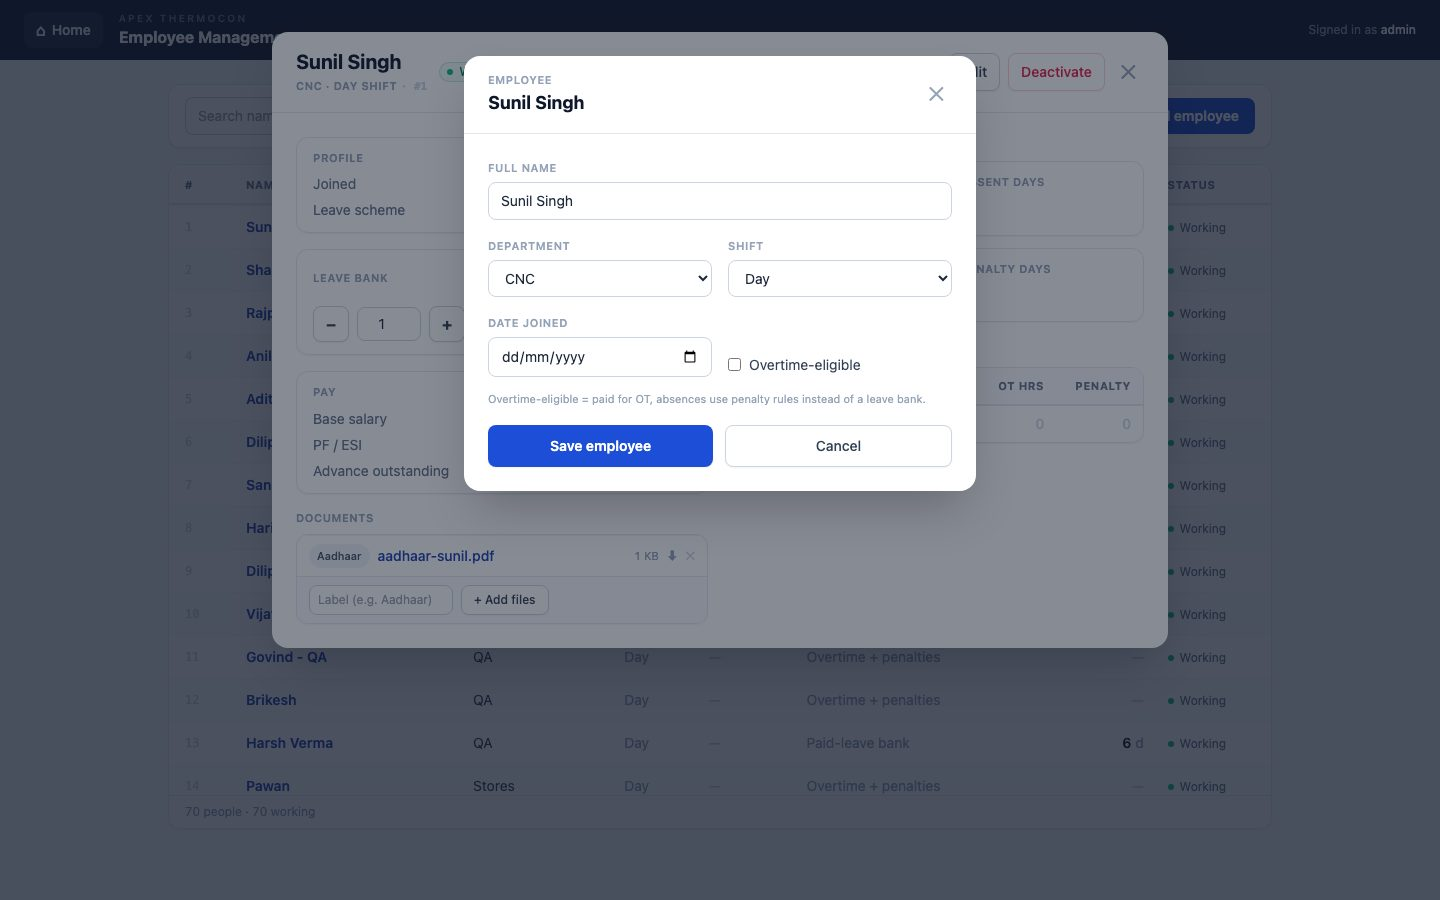
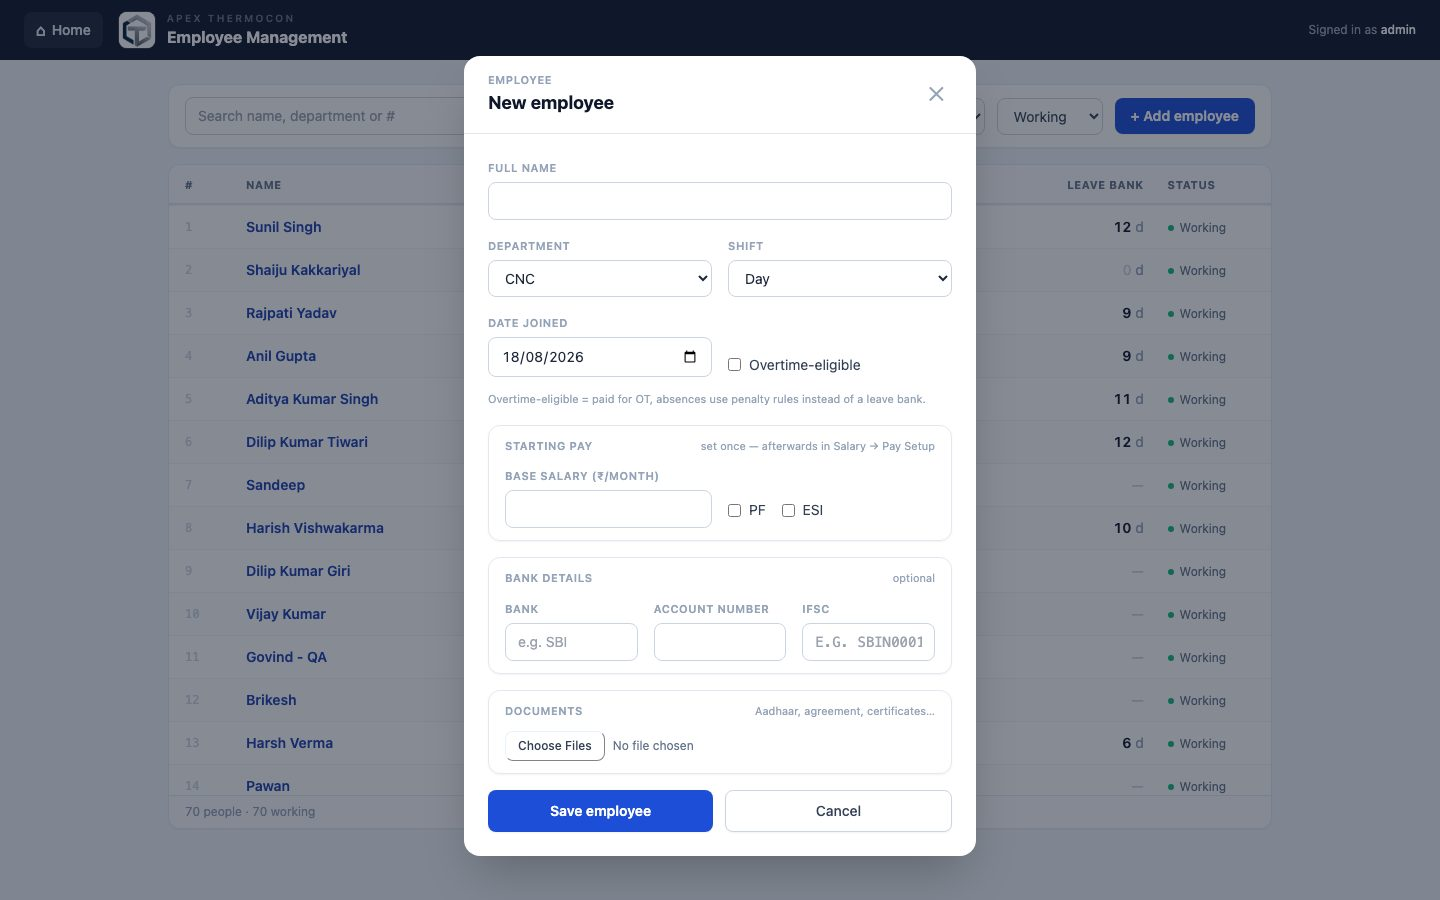
feat: bank details and day-one documents on the add-employee form
- Bank details (bank · account number · IFSC) are optional TEXT on the
  employee — an account number is an identifier, not arithmetic. IFSC
  is tidied to uppercase. They ride with the PROFILE model on the
  EM/Salary split: EM owns who the person is and where their pay goes,
  Pay Setup owns how much — so a stale pay form can never blank them
  (tested both directions). Shown on the record's Profile card, styled
  mono like the serial numbers they are.

- The add form takes the documents handed over on day one (Aadhaar,
  agreement, certificates) and attaches them as "Joining documents"
  after the create returns — same rule as intake and drawings: a failed
  upload is a toast, never a failed save, because re-saving would
  create the person twice.

245 tests pass (2 new: round-trip + tidy-up, the EM/Salary split
holding, and both route models carrying the fields — the Pydantic
drops-unknown-fields trap, pinned again). Verified in Chromium: created
an employee with bank details and two PDFs, record shows the bank line
and both documents, edit form prefills; test person removed from the
demo DB after. Guide + em-edit image + help rebuilt.

diff --git a/salary-system/new_system/frontend/employees/index.html b/salary-system/new_system/frontend/employees/index.html
@@ -193,6 +193,16 @@
               <div class="text-slate-500">Leave scheme</div>
               <div class="text-right text-slate-500"
                    x-text="detail.emp.overtime_eligible ? 'Overtime + penalty days' : 'Paid-leave bank'"></div>
+              <template x-if="detail.emp.bank_name || detail.emp.bank_account_no || detail.emp.bank_ifsc">
+                <div class="contents">
+                  <div class="text-slate-500">Bank</div>
+                  <div class="text-right">
+                    <span x-text="detail.emp.bank_name || '—'"></span>
+                    <div class="font-mono text-xs text-slate-500"
+                         x-text="[detail.emp.bank_account_no, detail.emp.bank_ifsc].filter(Boolean).join(' · ')"></div>
+                  </div>
+                </div>
+              </template>
             </div>
           </div>
 
@@ -415,6 +425,54 @@
             <div class="flex items-end gap-4 pb-2">
               <label class="flex items-center gap-2 text-slate-700 cursor-pointer"><input type="checkbox" x-model="form.pf_applicable" class="rounded border-slate-300" /> PF</label>
               <label class="flex items-center gap-2 text-slate-700 cursor-pointer"><input type="checkbox" x-model="form.esi_applicable" class="rounded border-slate-300" /> ESI</label>
+            </div>
+          </div>
+        </div>
+        <!-- optional: where the pay goes -->
+        <div class="rounded-xl border border-slate-200 shadow-sm px-4 py-3">
+          <div class="flex items-baseline gap-2">
+            <div class="text-[11px] uppercase tracking-wider text-slate-400 font-semibold">Bank details</div>
+            <div class="ml-auto text-[11px] text-slate-400">optional</div>
+          </div>
+          <div class="grid grid-cols-3 gap-4 text-sm mt-3">
+            <div>
+              <label class="block text-[11px] uppercase tracking-wider text-slate-400 font-semibold mb-1">Bank</label>
+              <input x-model="form.bank_name" placeholder="e.g. SBI"
+                     class="border border-slate-300 rounded-lg px-3 py-2 w-full text-sm bg-white
+                            focus:border-brand-500 focus:ring-2 focus:ring-brand-500/20 transition" /></div>
+            <div>
+              <label class="block text-[11px] uppercase tracking-wider text-slate-400 font-semibold mb-1">Account number</label>
+              <input x-model="form.bank_account_no" placeholder=""
+                     class="border border-slate-300 rounded-lg px-3 py-2 w-full text-sm bg-white font-mono
+                            focus:border-brand-500 focus:ring-2 focus:ring-brand-500/20 transition" /></div>
+            <div>
+              <label class="block text-[11px] uppercase tracking-wider text-slate-400 font-semibold mb-1">IFSC</label>
+              <input x-model="form.bank_ifsc" placeholder="e.g. SBIN0001234"
+                     class="border border-slate-300 rounded-lg px-3 py-2 w-full text-sm bg-white font-mono uppercase
+                            focus:border-brand-500 focus:ring-2 focus:ring-brand-500/20 transition" /></div>
+          </div>
+        </div>
+        <!-- documents handed over on day one — only when creating (the record
+             has its own Documents card afterwards) -->
+        <div x-show="!form.id" class="rounded-xl border border-slate-200 shadow-sm px-4 py-3">
+          <div class="flex items-baseline gap-2">
+            <div class="text-[11px] uppercase tracking-wider text-slate-400 font-semibold">Documents</div>
+            <div class="ml-auto text-[11px] text-slate-400">Aadhaar, agreement, certificates…</div>
+          </div>
+          <div class="mt-3">
+            <input type="file" multiple accept="image/*,.pdf"
+                   @change="emGrabFiles($event)"
+                   class="block w-full text-xs text-slate-500 file:mr-2 file:px-3 file:py-1.5 file:rounded-lg
+                          file:border file:border-slate-300 file:bg-white file:text-slate-700 file:text-xs
+                          file:font-medium hover:file:bg-slate-50 file:cursor-pointer file:transition-colors" />
+            <div class="flex flex-wrap gap-1.5 mt-2" x-show="form.files.length">
+              <template x-for="(f, fi) in form.files" :key="fi">
+                <span class="inline-flex items-center gap-1 text-xs text-slate-600 bg-slate-50 border border-slate-200 rounded-lg px-2 py-0.5">
+                  📄 <span class="max-w-[12rem] truncate" x-text="f.name"></span>
+                  <button type="button" @click="form.files.splice(fi,1)"
+                          class="text-slate-300 hover:text-rose-600 transition-colors">✕</button>
+                </span>
+              </template>
             </div>
           </div>
         </div>

diff --git a/salary-system/new_system/frontend/employees/employees.js b/salary-system/new_system/frontend/employees/employees.js
@@ -149,13 +149,23 @@ function em() {
         date_joined: today(), overtime_eligible: false, leave_balance: null,
         // one-time payroll setup on creation; managed in Salary afterwards
         base_salary: "", pf_applicable: false, esi_applicable: false, rem_advance: 0,
+        // optional — where the pay goes
+        bank_name: "", bank_account_no: "", bank_ifsc: "",
+        // documents handed over on day one (Aadhaar, agreement, certificates)
+        files: [],
       };
       this.formError = "";
     },
     editEmp() {
       const e = this.detail.emp;
-      this.form = { ...e, date_joined: e.date_joined || "" };
+      this.form = { ...e, date_joined: e.date_joined || "",
+                    bank_name: e.bank_name || "", bank_account_no: e.bank_account_no || "",
+                    bank_ifsc: e.bank_ifsc || "", files: [] };
       this.formError = "";
+    },
+    emGrabFiles(ev) {
+      this.form.files = [...this.form.files, ...ev.target.files];
+      ev.target.value = "";
     },
     async saveEmp() {
       this.formError = "";
@@ -172,16 +182,34 @@ function em() {
               method: "PUT",
               body: { name: f.name, dept: f.dept, shift: f.shift,
                       overtime_eligible: f.overtime_eligible,
-                      date_joined: f.date_joined || null },
+                      date_joined: f.date_joined || null,
+                      bank_name: f.bank_name, bank_account_no: f.bank_account_no,
+                      bank_ifsc: f.bank_ifsc },
             })
           : await api("/api/employees", {
               method: "POST",
-              body: { ...f, base_salary: Number(f.base_salary) || 0 },
+              body: { ...f, files: undefined,
+                      base_salary: Number(f.base_salary) || 0 },
             });
+        // the person exists from here — documents attach afterwards, and a
+        // failed upload must not read as a failed save (re-saving would
+        // create the employee twice)
+        let fileNote = "";
+        if ((f.files || []).length) {
+          const fd = new FormData();
+          fd.append("label", "Joining documents");
+          for (const x of f.files) fd.append("files", x, x.name);
+          try {
+            await api(`/api/employees/${saved.id}/documents`, { method: "POST", form: fd });
+            fileNote = ` · ${f.files.length} document(s) attached`;
+          } catch (e) {
+            this.flash(`Documents failed to attach (${e.message}) — add them from the record`, "err");
+          }
+        }
         this.form = null;
-        if (this.detail) this.detail.emp = saved;
+        if (this.detail) await this.open(saved.id);   // refresh emp + documents
         await this.load();
-        this.flash(`${saved.name} saved`);
+        this.flash(`${saved.name} saved` + fileNote);
       } catch (e) { this.formError = e.message; }
     },
 

diff --git a/salary-system/new_system/frontend/help/index.html b/salary-system/new_system/frontend/help/index.html
@@ -234,7 +234,7 @@
 <p data-access="employees">Everything about your people that isn't money: profiles, documents, the leave bank, and attendance summaries. Open the <strong>👥 Employee Management</strong> tile.</p>
 <h3 data-access="employees" id="41-the-roster">4.1 The roster</h3>
 <figure data-access="employees"><img src="images/em-roster.jpg" alt="Employee roster" loading="lazy"><figcaption>Employee roster</figcaption></figure>
-<p data-access="employees">Search by name/department/number, filter by department or <strong>Working / Left</strong>. Each row shows the shift, joining date, leave scheme and the leave bank. Click a row to open the full record. <strong>+ Add employee</strong> creates a new person — profile details plus a one-time <em>Starting pay</em> box (afterwards pay is managed in Salary → Pay Setup).</p>
+<p data-access="employees">Search by name/department/number, filter by department or <strong>Working / Left</strong>. Each row shows the shift, joining date, leave scheme and the leave bank. Click a row to open the full record. <strong>+ Add employee</strong> creates a new person — with their <strong>bank details</strong> (bank, account number, IFSC — all optional) and the <strong>documents they hand over on day one</strong> (Aadhaar, agreement, certificates) attached right from the same form — profile details plus a one-time <em>Starting pay</em> box (afterwards pay is managed in Salary → Pay Setup).</p>
 <h3 data-access="employees" id="42-one-employees-record">4.2 One employee's record</h3>
 <figure data-access="employees"><img src="images/em-detail.jpg" alt="Employee record" loading="lazy"><figcaption>Employee record</figcaption></figure>
 <ul data-access="employees">

diff --git a/salary-system/new_system/tests/test_users.py b/salary-system/new_system/tests/test_users.py
@@ -239,6 +239,43 @@ class EmployeeModule(UsersBase):
         emp = self.repo.get_employee(self.conn, new_id)
         self.assertIsInstance(emp["leave_balance"], int)
 
+    def test_bank_details_ride_with_creation_and_the_profile(self):
+        from backend.core.rules import load_rules
+        new_id = self.repo.create_employee(self.conn, {
+            "name": "Bank Man", "dept": "QA", "base_salary": 9000,
+            "leave_balance": 0,
+            "bank_name": " SBI ", "bank_account_no": " 00123400567 ",
+            "bank_ifsc": "sbin0001234",
+        }, load_rules())
+        emp = self.repo.get_employee(self.conn, new_id)
+        # tidied: stripped, IFSC uppercased; account number stays TEXT
+        self.assertEqual(emp["bank_name"], "SBI")
+        self.assertEqual(emp["bank_account_no"], "00123400567")
+        self.assertEqual(emp["bank_ifsc"], "SBIN0001234")
+        # the profile update carries them (EM owns where the pay goes)…
+        self.repo.update_employee_profile(self.conn, new_id, {
+            "name": "Bank Man", "dept": "QA", "bank_name": "HDFC",
+            "bank_account_no": "999", "bank_ifsc": "hdfc0000001"})
+        emp = self.repo.get_employee(self.conn, new_id)
+        self.assertEqual((emp["bank_name"], emp["bank_ifsc"]), ("HDFC", "HDFC0000001"))
+        # …and the pay update never touches them (the split holds)
+        self.repo.update_employee_pay(self.conn, new_id, {"base_salary": 9500})
+        self.assertEqual(self.repo.get_employee(self.conn, new_id)["bank_name"], "HDFC")
+
+    def test_bank_fields_are_optional_and_on_the_route_models(self):
+        from backend.core.rules import load_rules
+        from backend.modules.employees import router as emp_router
+        new_id = self.repo.create_employee(self.conn, {
+            "name": "No Bank", "dept": "QA", "base_salary": 9000,
+            "leave_balance": 0}, load_rules())
+        emp = self.repo.get_employee(self.conn, new_id)
+        self.assertEqual((emp["bank_name"], emp["bank_ifsc"]), ("", ""))
+        # the Pydantic-drops-unknown-fields trap, pinned for both models
+        self.assertEqual(emp_router.EmployeeIn(
+            name="X", dept="QA", base_salary=1, bank_ifsc="x").bank_ifsc, "x")
+        self.assertEqual(emp_router.EmployeeProfileIn(
+            name="X", dept="QA", bank_account_no="9").bank_account_no, "9")
+
     def test_leave_adjust(self):
         emp = self.repo.adjust_leave(self.conn, 1, 3)
         self.assertEqual(emp["leave_balance"], 8)

diff --git a/salary-system/new_system/backend/modules/employees/repo.py b/salary-system/new_system/backend/modules/employees/repo.py
@@ -49,6 +49,14 @@ def _new_employee_leave_seed(rules: dict, overtime_eligible: bool) -> int:
     return entitlement
 
 
+def _bank_fields(data: dict) -> tuple[str, str, str]:
+    """Optional bank details, tidied: stripped, IFSC uppercased. Free text on
+    purpose — an account number is an identifier, not arithmetic."""
+    return ((data.get("bank_name") or "").strip(),
+            (data.get("bank_account_no") or "").strip(),
+            (data.get("bank_ifsc") or "").strip().upper())
+
+
 def create_employee(conn, data: dict, rules: dict) -> int:
     ot = bool(data.get("overtime_eligible"))
     leave = _new_employee_leave_seed(rules, ot)
@@ -60,8 +68,9 @@ def create_employee(conn, data: dict, rules: dict) -> int:
     cur = conn.execute(
         """INSERT INTO employee
            (name, dept, base_salary, pf_applicable, esi_applicable,
-            overtime_eligible, shift, rem_advance, leave_balance, date_joined, active)
-           VALUES (?,?,?,?,?,?,?,?,?,?,1)""",
+            overtime_eligible, shift, rem_advance, leave_balance, date_joined,
+            bank_name, bank_account_no, bank_ifsc, active)
+           VALUES (?,?,?,?,?,?,?,?,?,?,?,?,?,1)""",
         (
             data["name"].strip(),
             data["dept"],
@@ -73,6 +82,7 @@ def create_employee(conn, data: dict, rules: dict) -> int:
             int(data.get("rem_advance", 0)),
             int(data.get("leave_balance", leave)),
             data.get("date_joined") or None,
+            *_bank_fields(data),
         ),
     )
     conn.commit()
@@ -87,7 +97,8 @@ def create_employee(conn, data: dict, rules: dict) -> int:
 def update_employee_profile(conn, emp_id: int, data: dict) -> None:
     conn.execute(
         """UPDATE employee SET
-             name=?, dept=?, shift=?, overtime_eligible=?, date_joined=?
+             name=?, dept=?, shift=?, overtime_eligible=?, date_joined=?,
+             bank_name=?, bank_account_no=?, bank_ifsc=?
            WHERE id=?""",
         (
             data["name"].strip(),
@@ -95,6 +106,7 @@ def update_employee_profile(conn, emp_id: int, data: dict) -> None:
             data.get("shift", "D"),
             int(bool(data.get("overtime_eligible"))),
             data.get("date_joined") or None,
+            *_bank_fields(data),
             emp_id,
         ),
     )

diff --git a/salary-system/new_system/backend/modules/employees/router.py b/salary-system/new_system/backend/modules/employees/router.py
@@ -41,16 +41,26 @@ class EmployeeIn(BaseModel):
     rem_advance: int = 0
     leave_balance: int | None = None
     date_joined: str | None = None
+    # optional — how this person is paid; free text on purpose (an account
+    # number is an identifier, not a number)
+    bank_name: str = ""
+    bank_account_no: str = ""
+    bank_ifsc: str = ""
 
 
 class EmployeeProfileIn(BaseModel):
     """EM's edit form — the people side. Pay fields deliberately absent so a
-    stale profile form can never revert Pay Setup (and vice versa)."""
+    stale profile form can never revert Pay Setup (and vice versa). Bank
+    details ride with the profile: EM owns who the person is and where their
+    pay goes; Pay Setup owns how much."""
     name: str
     dept: str
     shift: str = "D"
     overtime_eligible: bool = False
     date_joined: str | None = None
+    bank_name: str = ""
+    bank_account_no: str = ""
+    bank_ifsc: str = ""
 
 
 class EmployeePayIn(BaseModel):

diff --git a/salary-system/new_system/backend/core/db.py b/salary-system/new_system/backend/core/db.py
@@ -48,6 +48,9 @@ CREATE TABLE IF NOT EXISTS employee (
     rem_advance       INTEGER NOT NULL DEFAULT 0,    -- outstanding advance balance
     leave_balance     INTEGER NOT NULL DEFAULT 0,    -- paid-leave bank (non-OT only)
     date_joined       TEXT,                          -- 'YYYY-MM-DD' (nullable)
+    bank_name         TEXT,                          -- optional: how this person is paid
+    bank_account_no   TEXT,                          -- TEXT — account numbers aren't math
+    bank_ifsc         TEXT,
     active            INTEGER NOT NULL DEFAULT 1
 );
 
@@ -554,6 +557,9 @@ _MIGRATIONS = {
     },
     "employee": {
         "date_joined": "TEXT",
+        "bank_name": "TEXT",
+        "bank_account_no": "TEXT",
+        "bank_ifsc": "TEXT",
     },
     "attendance_summary": {
         "leave_used": "INTEGER NOT NULL DEFAULT 0",

diff --git a/docs/modules/employees.md b/docs/modules/employees.md
@@ -43,6 +43,18 @@ sync live there); this module shows the summaries.
 - Seed: `backend/modules/employees/seed.py`. Spec: `tests/test_users.py`
   (EmployeeModule class) + `tests/test_payroll.py` for the rules engine.
 
+## Bank details & day-one documents (2026-08-18)
+- **Bank details** (bank name · account number · IFSC) are optional TEXT on the
+  employee — an account number is an identifier, not arithmetic. Entered at
+  creation or via EM's edit form; shown on the record's Profile card. They ride
+  with the PROFILE model, not Pay Setup: EM owns who the person is and where
+  their pay goes, Salary owns how much — so a stale pay form can never blank
+  them (tested).
+- **Documents at creation**: the add form takes files (labelled "Joining
+  documents") and uploads them to the existing documents endpoint AFTER the
+  person is created — a failed upload downgrades to a toast, never a failed
+  save (re-saving would create the employee twice).
+
 ## Data model
 `employee(...)` · `attendance_day` · `attendance_summary` · `leave_reset` ·
 `sync_log` · **`employee_document(id, employee_id, label, filename, mime,

diff --git a/docs/DECISIONS.md b/docs/DECISIONS.md
@@ -382,3 +382,11 @@ live in [OPEN_QUESTIONS.md](OPEN_QUESTIONS.md).)
   sidebar show the mark on a white tile, and it is the favicon everywhere.
   ⚠ OPEN: the logo spells **THERMACON**; every screen and printed document
   spells **THERMOCON**. Owner to confirm which is right — then one sweep.
+
+## 2026-08-18 — Employee bank details + day-one documents
+- Bank details live on the employee as optional TEXT (account numbers are
+  identifiers), entered at creation or in EM's edit form, and belong to the
+  PROFILE side of the EM/Salary split — Pay Setup can never blank them.
+- The add-employee form uploads day-one documents after the create returns
+  (same pattern as intake and drawings): the person existing must never be
+  confused with the paperwork attaching.

diff --git a/docs/USER_GUIDE.md b/docs/USER_GUIDE.md
@@ -198,6 +198,9 @@ bank, and attendance summaries. Open the **👥 Employee Management** tile.
 Search by name/department/number, filter by department or **Working / Left**.
 Each row shows the shift, joining date, leave scheme and the leave bank.
 Click a row to open the full record. **+ Add employee** creates a new person —
+with their **bank details** (bank, account number, IFSC — all optional) and the
+**documents they hand over on day one** (Aadhaar, agreement, certificates)
+attached right from the same form —
 profile details plus a one-time *Starting pay* box (afterwards pay is managed
 in Salary → Pay Setup).
 
